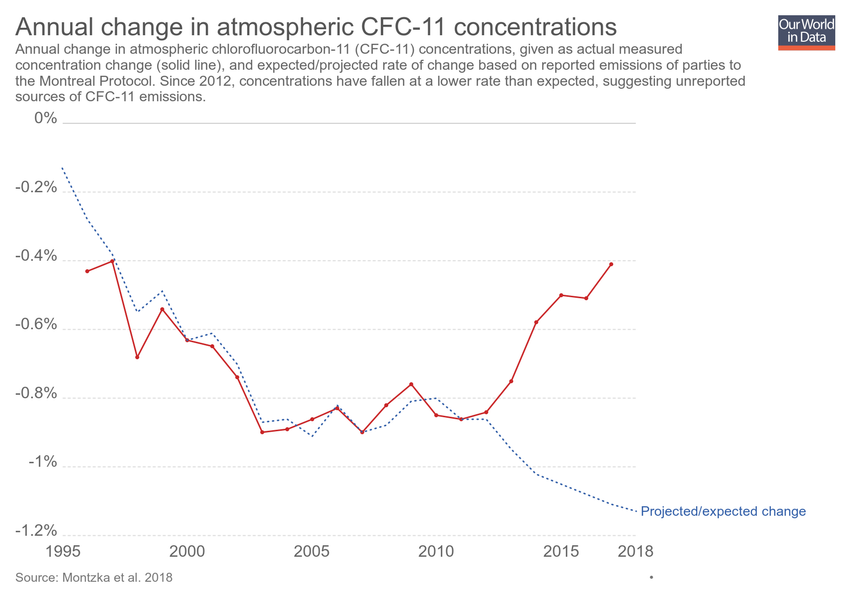
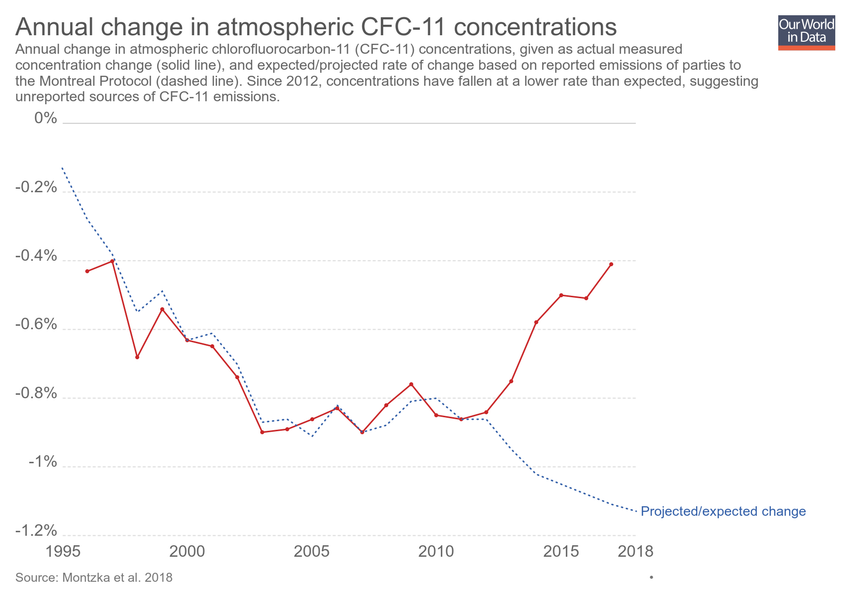
Updating chart change-in-cfc-11-concentrations

Changed region(s): [[0.0, 0.12, 0.8871, 0.18]]

diff --git a/grapher/change-in-cfc-11-concentrations.html b/grapher/change-in-cfc-11-concentrations.html
@@ -1,4 +1,4 @@
-<!doctype html><html><head><meta name="viewport" content="width=device-width, initial-scale=1" /><title>Annual change in atmospheric CFC-11 concentrations - Our World in Data</title><meta name="description" content="Annual change in atmospheric chlorofluorocarbon-11 (CFC-11) concentrations, given as actual measured concentration change (solid line), and expected/projected rate of change based on reported emissions of parties to the Montreal Protocol. Since 2012, concentrations have fallen at a lower rate than expected, suggesting unreported sources of CFC-11 emissions. " /><link rel="canonical" href="https://ourworldindata.org/grapher/change-in-cfc-11-concentrations" /><meta property="fb:app_id" content="1149943818390250" /><meta property="og:url" content="https://ourworldindata.org/grapher/change-in-cfc-11-concentrations" /><meta property="og:title" content="Annual change in atmospheric CFC-11 concentrations" /><meta property="og:description" content="Annual change in atmospheric chlorofluorocarbon-11 (CFC-11) concentrations, given as actual measured concentration change (solid line), and expected/projected rate of change based on reported emissions of parties to the Montreal Protocol. Since 2012, concentrations have fallen at a lower rate than expected, suggesting unreported sources of CFC-11 emissions. " /><meta property="og:image" content="https://ourworldindata.org/grapher/exports/change-in-cfc-11-concentrations.png?v=1" /><meta property="og:image:width" content="850" /><meta property="og:image:height" content="600" /><meta property="og:site_name" content="Our World in Data" /><meta name="twitter:card" content="summary_large_image" /><meta name="twitter:site" content="@OurWorldInData" /><meta name="twitter:creator" content="@OurWorldInData" /><meta name="twitter:title" content="Annual change in atmospheric CFC-11 concentrations" /><meta name="twitter:description" content="Annual change in atmospheric chlorofluorocarbon-11 (CFC-11) concentrations, given as actual measured concentration change (solid line), and expected/projected rate of change based on reported emissions of parties to the Montreal Protocol. Since 2012, concentrations have fallen at a lower rate than expected, suggesting unreported sources of CFC-11 emissions. " /><meta name="twitter:image" content="https://ourworldindata.org/grapher/exports/change-in-cfc-11-concentrations.png?v=1" /><style>
+<!doctype html><html><head><meta name="viewport" content="width=device-width, initial-scale=1" /><title>Annual change in atmospheric CFC-11 concentrations - Our World in Data</title><meta name="description" content="Annual change in atmospheric chlorofluorocarbon-11 (CFC-11) concentrations, given as actual measured concentration change (solid line), and expected/projected rate of change based on reported emissions of parties to the Montreal Protocol (dashed line). Since 2012, concentrations have fallen at a lower rate than expected, suggesting unreported sources of CFC-11 emissions. " /><link rel="canonical" href="https://ourworldindata.org/grapher/change-in-cfc-11-concentrations" /><meta property="fb:app_id" content="1149943818390250" /><meta property="og:url" content="https://ourworldindata.org/grapher/change-in-cfc-11-concentrations" /><meta property="og:title" content="Annual change in atmospheric CFC-11 concentrations" /><meta property="og:description" content="Annual change in atmospheric chlorofluorocarbon-11 (CFC-11) concentrations, given as actual measured concentration change (solid line), and expected/projected rate of change based on reported emissions of parties to the Montreal Protocol (dashed line). Since 2012, concentrations have fallen at a lower rate than expected, suggesting unreported sources of CFC-11 emissions. " /><meta property="og:image" content="https://ourworldindata.org/grapher/exports/change-in-cfc-11-concentrations.png?v=2" /><meta property="og:image:width" content="850" /><meta property="og:image:height" content="600" /><meta property="og:site_name" content="Our World in Data" /><meta name="twitter:card" content="summary_large_image" /><meta name="twitter:site" content="@OurWorldInData" /><meta name="twitter:creator" content="@OurWorldInData" /><meta name="twitter:title" content="Annual change in atmospheric CFC-11 concentrations" /><meta name="twitter:description" content="Annual change in atmospheric chlorofluorocarbon-11 (CFC-11) concentrations, given as actual measured concentration change (solid line), and expected/projected rate of change based on reported emissions of parties to the Montreal Protocol (dashed line). Since 2012, concentrations have fallen at a lower rate than expected, suggesting unreported sources of CFC-11 emissions. " /><meta name="twitter:image" content="https://ourworldindata.org/grapher/exports/change-in-cfc-11-concentrations.png?v=2" /><style>
         html, body {
             height: 100%;
             margin: 0;
@@ -20,8 +20,8 @@
         }
     </style><noscript><style>
                     figure { display: none !important; }
-                </style></noscript><link rel="stylesheet" href="https://ourworldindata.org/grapher/assets/commons.bundle.dcbbe53805c487d5e57617b10ac73a8a.css" /><link rel="preload" href="/grapher/data/variables/97612+97615.json?v=1" as="fetch" crossorigin /></head><body class="singleChart"><figure data-grapher-src="/grapher/change-in-cfc-11-concentrations"></figure><noscript id="fallback"><img src="/grapher/exports/change-in-cfc-11-concentrations.svg" /><p>Interactive visualization requires JavaScript</p></noscript><script src="https://cdn.polyfill.io/v2/polyfill.min.js?features=es6,fetch"></script><script src="https://ourworldindata.org/grapher/assets/commons.bundle.da523acc49807a06a11f.js"></script><script src="https://ourworldindata.org/grapher/assets/charts.bundle.da523acc49807a06a11f.js"></script><script>
-        var jsonConfig = {"map":{"projection":"World","colorSchemeLabels":[],"colorSchemeValues":[],"customNumericColors":[],"customCategoryColors":{},"customCategoryLabels":{},"customHiddenCategories":{}},"tab":"chart","slug":"change-in-cfc-11-concentrations","type":"LineChart","title":"Annual change in atmospheric CFC-11 concentrations","xAxis":{"scaleType":"linear"},"yAxis":{"max":0,"min":-1.2,"scaleType":"linear"},"version":1,"subtitle":"Annual change in atmospheric chlorofluorocarbon-11 (CFC-11) concentrations, given as actual measured concentration change (solid line), and expected/projected rate of change based on reported emissions of parties to the Montreal Protocol. Since 2012, concentrations have fallen at a lower rate than expected, suggesting unreported sources of CFC-11 emissions. ","hasMapTab":false,"stackMode":"absolute","dimensions":[{"display":{"name":"CFC-11 concentration"},"property":"y","variableId":97612},{"display":{"name":"Projected/expected change","isProjection":true},"property":"y","variableId":97615}],"sourceDesc":"Montzka et al. 2018","hasChartTab":true,"isPublished":true,"selectedData":[{"color":"#ca2628","index":0,"entityId":355},{"color":"#3360a9","index":1,"entityId":355}],"addCountryMode":"change-country","hideTitleAnnotation":true,"id":2821};
+                </style></noscript><link rel="stylesheet" href="https://ourworldindata.org/grapher/assets/commons.bundle.dcbbe53805c487d5e57617b10ac73a8a.css" /><link rel="preload" href="/grapher/data/variables/97612+97615.json?v=2" as="fetch" crossorigin /></head><body class="singleChart"><figure data-grapher-src="/grapher/change-in-cfc-11-concentrations"></figure><noscript id="fallback"><img src="/grapher/exports/change-in-cfc-11-concentrations.svg" /><p>Interactive visualization requires JavaScript</p></noscript><script src="https://cdn.polyfill.io/v2/polyfill.min.js?features=es6,fetch"></script><script src="https://ourworldindata.org/grapher/assets/commons.bundle.da523acc49807a06a11f.js"></script><script src="https://ourworldindata.org/grapher/assets/charts.bundle.da523acc49807a06a11f.js"></script><script>
+        var jsonConfig = {"id":2821,"map":{"projection":"World","colorSchemeLabels":[],"colorSchemeValues":[],"customNumericColors":[],"customCategoryColors":{},"customCategoryLabels":{},"customHiddenCategories":{}},"tab":"chart","slug":"change-in-cfc-11-concentrations","type":"LineChart","title":"Annual change in atmospheric CFC-11 concentrations","xAxis":{"scaleType":"linear"},"yAxis":{"max":0,"min":-1.2,"scaleType":"linear"},"version":2,"subtitle":"Annual change in atmospheric chlorofluorocarbon-11 (CFC-11) concentrations, given as actual measured concentration change (solid line), and expected/projected rate of change based on reported emissions of parties to the Montreal Protocol (dashed line). Since 2012, concentrations have fallen at a lower rate than expected, suggesting unreported sources of CFC-11 emissions. ","hasMapTab":false,"stackMode":"absolute","dimensions":[{"display":{"name":"CFC-11 concentration"},"property":"y","variableId":97612},{"display":{"name":"Projected/expected change","isProjection":true},"property":"y","variableId":97615}],"sourceDesc":"Montzka et al. 2018","hasChartTab":true,"isPublished":true,"selectedData":[{"color":"#ca2628","index":0,"entityId":355},{"color":"#3360a9","index":1,"entityId":355}],"addCountryMode":"change-country","hideTitleAnnotation":true};
         var figure = document.getElementsByTagName("figure")[0];
         try {
             window.App = {};
